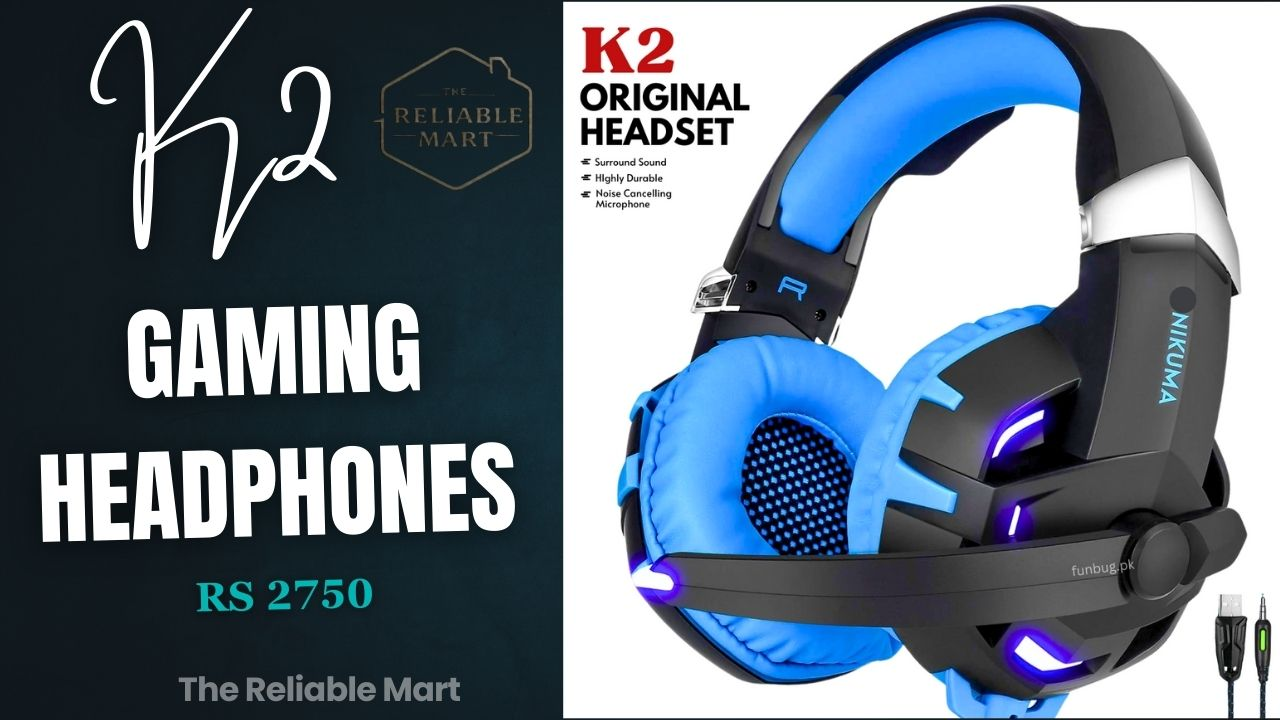
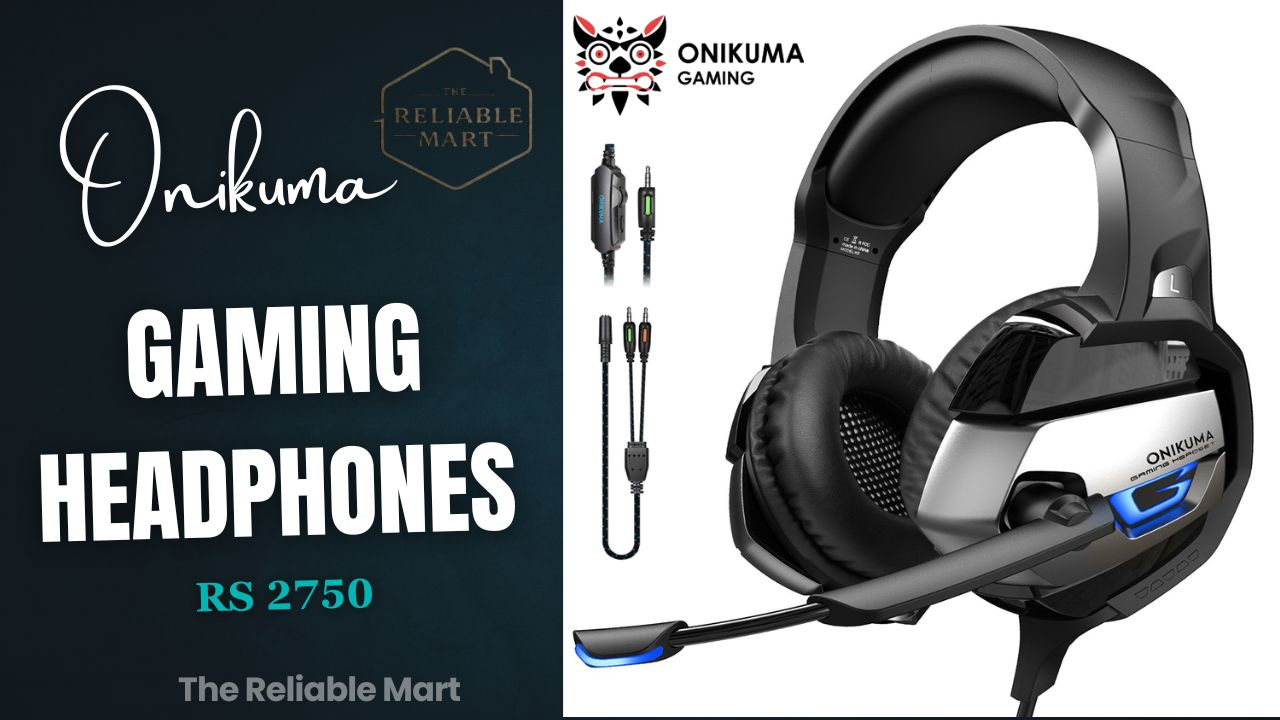
changed stock

diff --git a/src/components/ProductTable.jsx b/src/components/ProductTable.jsx
@@ -12,7 +12,7 @@ import HDMiBasic from './Pictures/HDMiBasic.jpg';
 import Acable from './Pictures/Acable.jpg';
 
 import typeCbasic from './Pictures/typeCbasic.jpg';
-import CtoC from './Pictures/CtoC.jpg';
+import CtoC from './Pictures/CtoC.png';
 import CNormal from './Pictures/CNormal.jpg';
 import Lightening1500 from './Pictures/Lightening1500.jpg';
 import CardReader from './Pictures/CardReader.jpg';
@@ -22,6 +22,7 @@ import Lighteningbasic from './Pictures/Lighteningbasic.jpg';
 import PowerCable from './Pictures/PowerCable.jpg';
 import VGACable from './Pictures/VGACable.jpg';
 import USBHub from './Pictures/USBHub.jpg';
+import CHub from './Pictures/CHub.jpg';
 import HDMIcableOrg from './Pictures/HDMIcableOrg.jpg';
 import MFiCable from './Pictures/MFiCable.jpg';
 import ANSTYlighteningCable from './Pictures/ANSTYlighteningCable.jpg';
@@ -158,7 +159,8 @@ const products = [
 
 
       { id: '5', name: '3.0 USB hub', description: 'Good Quality 4 Ports USB Hub with led indicator', price: '650', pictureUrl: [USBHub] },
-      { id: '6', name: '2 in 1 3.5mm', description: 'connector for PCs', price: '280', pictureUrl: [Connetorpc] },
+      { id: '6', name: 'Type C hub', description: 'Good Quality 4 Ports USB Hub', price: '650', pictureUrl: [CHub] },
+      { id: '7', name: '2 in 1 3.5mm', description: 'connector for PCs', price: '280', pictureUrl: [Connetorpc] },
 
 
     ],
@@ -170,7 +172,7 @@ const products = [
       { id: '1', name: 'MicroUSB Charging Cable', description: 'Normal Quality', price: '250', pictureUrl: [microbasic] },
       { id: '2', name: 'MicroUSB Charging Cable', description: 'Original Cable', price: '350', pictureUrl: [OriginalMicroCable] },
       { id: '3', name: 'TypeC Charging Cable', description: 'High Quality Cable', price: '500', pictureUrl: [OriginalTypeC], customClass: '' },
-      { id: '4', name: 'TypeC to C Cable', description: 'Original Baseus Cable', price: '800', pictureUrl: [CtoC], customClass: '' },
+      { id: '4', name: 'TypeC to C Cable', description: 'Original Baseus Cable', price: '2000', pictureUrl: [CtoC], customClass: '' },
       { id: '5', name: 'TypeC Charging Cable', description: 'Good Quality Cable || upTo 70W', price: '250', pictureUrl: [typeCbasic] },
       { id: '6', name: 'TypeC Charging Cable', description: 'Basic Quality Cable || upTo 70W', price: '150', pictureUrl: [CNormal] },
       { id: '7', name: 'Anker Lightning Cable', description: 'MFi Certified', price: '2000', pictureUrl: [MFiCable] },
@@ -216,7 +218,7 @@ const products = [
       { id: '6', name: 'Audionic Jionee Type C', description: 'Original', price: '750', pictureUrl: [Cjionee], customClass: '' },
       { id: '7', name: 'Audionic Jionee', description: 'Original', price: '500', pictureUrl: [Jionee], customClass: '' },
       { id: '8', name: 'Audionic Mark 1', description: 'Original', price: '500', pictureUrl: [Mark1], customClass: '' },
-      { id: '9', name: 'Lenovo HE05X Neckband', description: 'Excellent Battery | 6 Months Warranty', price: '1000', pictureUrl: [HE05X], customClass: '' },
+      { id: '9', name: 'Lenovo HE05X Neckband', description: 'Excellent Battery | 6 Months Warranty', price: '1500', pictureUrl: [HE05X], customClass: '' },
       {
         id: '10', name: 'Zero Aura ENC Earbuds ', description: ` 1 Year Brand Warranty. ENC, Noise Reduction technology. Features of Aura:
         40 Hour Battery Life
@@ -225,19 +227,19 @@ const products = [
         IPX5 Water Resistance
         Instant Pairing || NOTE: This Item has brand warranty, not to be claimed through seller.`, price: '3500', pictureUrl: [ZeroAura], customClass: 'description '
       },
-      { id: '11', name: 'K2 Gaming Headphones', description: 'Gaming Headphones with RGB lights, 50mm driver, comfortable design, ', price: '2750', pictureUrl: [GamingHeadphone], customClass: "description" },
+      { id: '11', name: 'Onikuma Gaming Headphones', description: 'Gaming Headphones with 50mm driver, comfortable design, ', price: '2900', pictureUrl: [GamingHeadphone], customClass: "" },
       { id: '12', name: 'Space wireless Headphones', description: `Driver Unit:40mm, Impedance:320 Ohms, Frequency Response:20-20KHz, Sensitivity:110dB±3dB, Electric Current:3.6V-5V DC, Voltage:≤70 mA, Rechargeable Lithium Battery:250 mAh,Operation Range:10 Meters, Charging Time:2-3 Hours, Standby Time:100 Hours, Memory Card Support: Upto 32GB, L2CAP, A2DP, AVCTP,Supports: AVDTP, AVRCP`, price: '4000', pictureUrl: [SpaceHeadphones], customClass: 'description' },
 
-      { id: '13', name: 'Boost Groove wireless headset', description: 'Experience seamless connectivity with Bluetooth 5.0+EDR on Boost Groove headset for enhanced performance. 5 hours play time with micro SD card supported. Enjoy immersive sound with 40mm speakers and audio jack. 1 year brand warranty. NOTE: This item has brand warranty and cannot be claimed through seller. ', price: '3000', pictureUrl: [BoostGroovewirelessheadset], customClass: "description noPrice" },
+      // { id: '13', name: 'Boost Groove wireless headset', description: 'Experience seamless connectivity with Bluetooth 5.0+EDR on Boost Groove headset for enhanced performance. 5 hours play time with micro SD card supported. Enjoy immersive sound with 40mm speakers and audio jack. 1 year brand warranty. NOTE: This item has brand warranty and cannot be claimed through seller. ', price: '3000', pictureUrl: [BoostGroovewirelessheadset], customClass: "description noPrice" },
 
-      { id: '14', name: 'Boost Sonic wireless Headset', description: 'Enjoy ultimate calling and play experience with Bluetooth 5.0+EDR and an amazing battery life. Memory card and aux cable supported.  7 color lightening with immersive 40mm speaker. 1 year brand warranty. NOTE: This item has brand warranty and cannot be claimed through seller.', price: '3500', pictureUrl: [BoostSonic], customClass: "description noPrice" },
+      // { id: '14', name: 'Boost Sonic wireless Headset', description: 'Enjoy ultimate calling and play experience with Bluetooth 5.0+EDR and an amazing battery life. Memory card and aux cable supported.  7 color lightening with immersive 40mm speaker. 1 year brand warranty. NOTE: This item has brand warranty and cannot be claimed through seller.', price: '3500', pictureUrl: [BoostSonic], customClass: "description noPrice" },
 
-      { id: '15', name: 'Boost Echo wired gaming Headset', description: 'Enjoy comfortable and adjustable Headband with Ergonomic earcups. Stand out in style with dynamic RGB lightening and immersive experience with 7.1 virtual sound and tangle free cable. Communicate clearly with high quality, built-in microphone. 1 year brand warranty. NOTE: This item has brand warranty and cannot be claimed through seller. ', price: '5500', pictureUrl: [BoostEcho], customClass: "description noPrice" },
+      // { id: '15', name: 'Boost Echo wired gaming Headset', description: 'Enjoy comfortable and adjustable Headband with Ergonomic earcups. Stand out in style with dynamic RGB lightening and immersive experience with 7.1 virtual sound and tangle free cable. Communicate clearly with high quality, built-in microphone. 1 year brand warranty. NOTE: This item has brand warranty and cannot be claimed through seller. ', price: '5500', pictureUrl: [BoostEcho], customClass: "description noPrice" },
 
-      { id: '16', name: 'Boost Pulse wireless Anc Headphone', description: 'Enjoy uninterrupted listening with Bluetooth 5.3 and amazing battery life with dynamic sound. Experience Active Noise Cancellation and talk time upto 20 hours. Fast type-C charging. 1 year brand warranty. NOTE: This item has brand warranty and cannot be claimed through seller.', price: '6000', pictureUrl: [BoostPulse], customClass: "description noPrice" },
+      // { id: '16', name: 'Boost Pulse wireless Anc Headphone', description: 'Enjoy uninterrupted listening with Bluetooth 5.3 and amazing battery life with dynamic sound. Experience Active Noise Cancellation and talk time upto 20 hours. Fast type-C charging. 1 year brand warranty. NOTE: This item has brand warranty and cannot be claimed through seller.', price: '6000', pictureUrl: [BoostPulse], customClass: "description noPrice" },
 
-      { id: '17', name: 'Boost Sync premium ANC wireless Headset', description: ' Enjoy ultimate calling and listening with Bluetooth 5.4 and an amazing battery life upto 60 hours playing hours. Experience 27dB noise cancellation and 40mm Neodymium speakers. IPX4 resistance offering protection against splashes and sweat. Aux cable supported. Available in black and blue color. 1 year brand warranty. NOTE: This item has brand warranty and cannot be claimed through seller.', price: '8000', pictureUrl: [BoostSync], customClass: "description noPrice" },
-      { id: '18', name: 'Boost Wave premium hybrid ANC headset.', description: 'Experience a quality listening upto 80 hours play time with Bluetooth 5.4 and IPX4 water resistance. Enhance gaming experience with 45MS and 35dB Hybrid noise cancellation. Travel case included. Type-C charging with aux cable supported. Available in black and blue color. 1 year brand warranty. NOTE: This item has brand warranty and cannot be claimed through seller.', price: '11000', pictureUrl: [Boostwave], customClass: "description noPrice" },
+      // { id: '17', name: 'Boost Sync premium ANC wireless Headset', description: ' Enjoy ultimate calling and listening with Bluetooth 5.4 and an amazing battery life upto 60 hours playing hours. Experience 27dB noise cancellation and 40mm Neodymium speakers. IPX4 resistance offering protection against splashes and sweat. Aux cable supported. Available in black and blue color. 1 year brand warranty. NOTE: This item has brand warranty and cannot be claimed through seller.', price: '8000', pictureUrl: [BoostSync], customClass: "description noPrice" },
+      // { id: '18', name: 'Boost Wave premium hybrid ANC headset.', description: 'Experience a quality listening upto 80 hours play time with Bluetooth 5.4 and IPX4 water resistance. Enhance gaming experience with 45MS and 35dB Hybrid noise cancellation. Travel case included. Type-C charging with aux cable supported. Available in black and blue color. 1 year brand warranty. NOTE: This item has brand warranty and cannot be claimed through seller.', price: '11000', pictureUrl: [Boostwave], customClass: "description noPrice" },
     ],
   },
 
@@ -317,7 +319,7 @@ const products = [
 
 7 days money back  guarantee,
 15 days check warranty`, price: '78000 ', pictureUrl: [Elitebook440],
-        customClass: 'description'
+        customClass: 'description soldClass'
         // customClass: 'soldClass',
       },
       {
@@ -332,7 +334,7 @@ Excellent processing power,
 
 7 days money back  guarantee
 15 days check warranty`, price: '180000 ', pictureUrl: [ZBook],
-        customClass: 'description'
+        customClass: 'description soldClass'
         // customClass: 'soldClass',
       },
     ]
@@ -342,8 +344,8 @@ Excellent processing power,
     id: 'Trimmers',
     items: [
       {
-        id: '1', name: 'Dingling Professional Trimmer RF-609', description: `The DINGLING has been developed using the latest technical know how. It has been produced using the most modern machinery and all the functions have been thoroughly tested. We hope you will be fully satisfied with the DINGLING. Before use please read the operating instructions carefully,`, price: '3100 ', pictureUrl: [Dingling],
-        customClass: 'description'
+        id: '1', name: 'Dingling Professional Trimmer RF-609', description: `The DINGLING has been developed using the latest technical know how. It has been produced using the most modern machinery and all the functions have been thoroughly tested. We hope you will be fully satisfied with the DINGLING. Before use please read the operating instructions carefully,`, price: '3500 ', pictureUrl: [Dingling],
+        customClass: 'description '
         // customClass: 'soldClass',
       },
     ]
@@ -460,7 +462,7 @@ IP68. 1 year brand warranty. NOTE: This item has brand warranty and cannot be cl
  Net Weight : 236g
  Gross Weight : 270g
  Product Dimension : 14.8 x 6.9 x 1.6 cm
- Warranty : 1 year Warranty.  NOTE: This Item has brand warranty, not to be claimed through seller.`, price: '4550', pictureUrl: [Fasterwireless], customClass: 'description '
+ Warranty : 1 year Warranty.  NOTE: This Item has brand warranty, not to be claimed through seller.`, price: '4550', pictureUrl: [Fasterwireless], customClass: 'description soldClass'
       },
 
       {

diff --git a/src/components/Footer.module.css b/src/components/Footer.module.css
@@ -35,7 +35,7 @@
 }
 
 .anker:hover {
-  color: #1230AE; /* Contrast color for hover */
+  color: #6f8bfa; /* Contrast color for hover */
 }
 
 .anker:hover::after {
